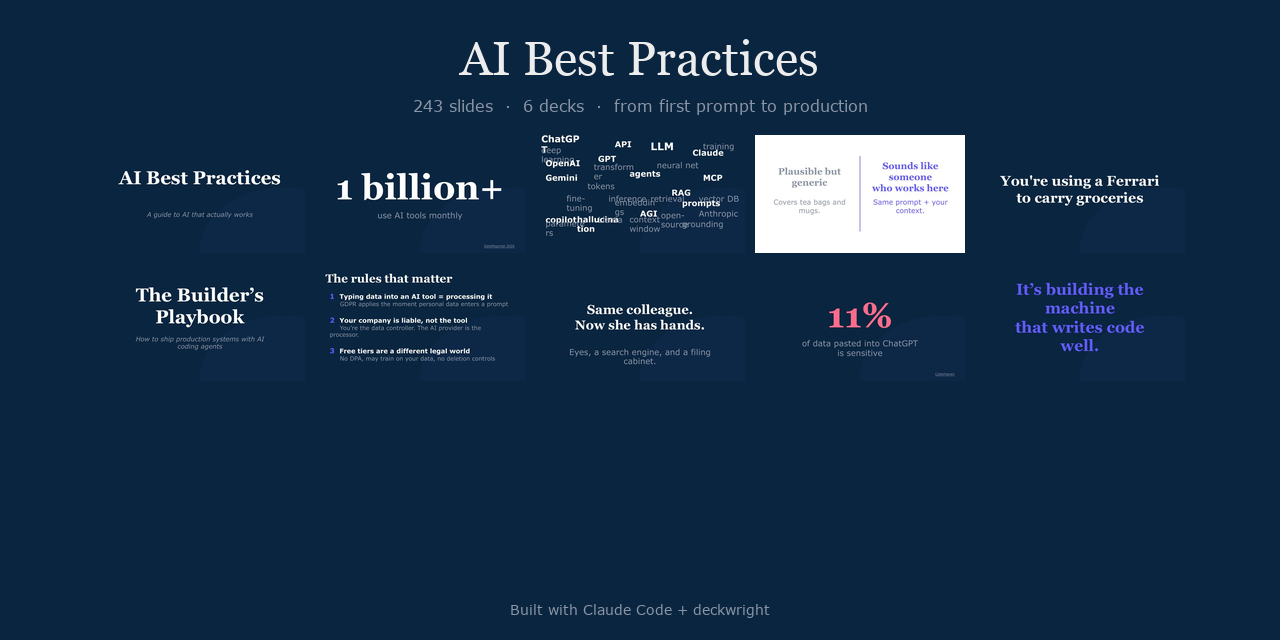
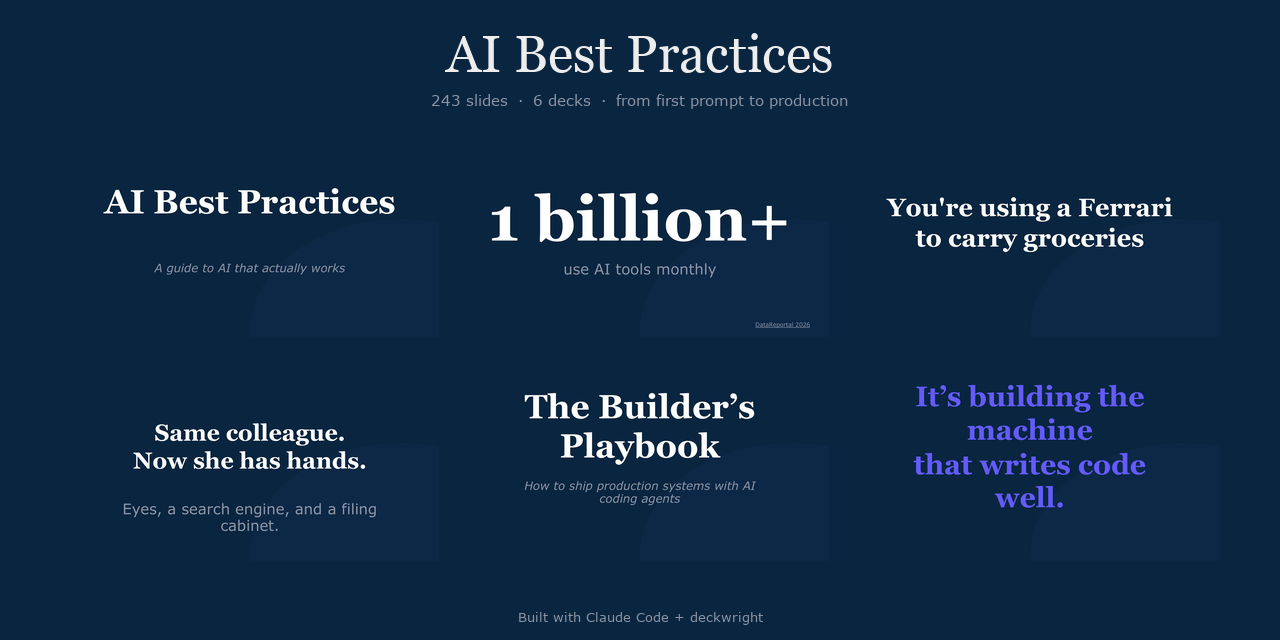
Redesign social preview with larger, readable thumbnails
3x2 grid of billboard-style slides instead of 5x2 dense grid.
All thumbnails readable at a glance. Represents best-practices,
workshop, and builder decks. Script is reusable.

diff --git a/assets/generate-social-preview.py b/assets/generate-social-preview.py
@@ -8,7 +8,6 @@ Usage: python3 assets/generate-social-preview.py
 """
 
 import subprocess
-import math
 from pathlib import Path
 from PIL import Image, ImageDraw, ImageFont
 
@@ -33,18 +32,14 @@ DECKS = [
     "ai-academy-pitch",
 ]
 
-# Slide thumbnails to feature (deck_name, slide_number)
+# 6 billboard-style slides that read at thumbnail size (deck_name, slide_number)
 FEATURED_SLIDES = [
-    ("ai-best-practices", 1),
-    ("ai-best-practices", 7),
-    ("ai-best-practices", 13),
-    ("ai-best-practices", 35),
-    ("workshop-2-orchestrator", 4),
-    ("builder", 1),
-    ("ai-policy", 11),
-    ("ai-best-practices", 53),
-    ("ai-policy", 21),
-    ("builder", 62),
+    ("ai-best-practices", 1),       # "AI Best Practices" title
+    ("ai-best-practices", 7),       # "1 billion+"
+    ("workshop-2-orchestrator", 4), # "You're using a Ferrari to carry groceries"
+    ("ai-best-practices", 53),      # "Same colleague. Now she has hands."
+    ("builder", 1),                 # "The Builder's Playbook" title
+    ("builder", 62),                # "It's building the machine that writes code well."
 ]
 
 
@@ -59,13 +54,14 @@ def get_slide_count(deck_name):
     return 0
 
 
-def get_slide_image(deck_name, slide_num):
+def get_slide_image(deck_name, slide_num, dpi=150):
     """Extract a single slide as a PIL Image."""
     pdf = ROOT / "decks" / deck_name / f"{deck_name}.pdf"
     import tempfile, os
     with tempfile.TemporaryDirectory() as tmp:
         subprocess.run(
-            ["pdftoppm", "-jpeg", "-r", "72", "-f", str(slide_num), "-l", str(slide_num),
+            ["pdftoppm", "-jpeg", "-r", str(dpi),
+             "-f", str(slide_num), "-l", str(slide_num),
              str(pdf), os.path.join(tmp, "s")],
             capture_output=True
         )
@@ -99,31 +95,35 @@ def main():
     draw = ImageDraw.Draw(img)
 
     # Fonts
-    title_font = try_font("Georgia", 48)
-    sub_font = try_font("Verdana", 16)
-    footer_font = try_font("Verdana", 14)
+    title_font = try_font("Georgia", 52)
+    sub_font = try_font("Verdana", 15)
+    footer_font = try_font("Verdana", 13)
 
-    # Title
+    # Title — top area
     title = "AI Best Practices"
     bbox = draw.textbbox((0, 0), title, font=title_font)
     tw = bbox[2] - bbox[0]
-    draw.text(((WIDTH - tw) / 2, 30), title, fill=TEXT, font=title_font)
+    draw.text(((WIDTH - tw) / 2, 24), title, fill=TEXT, font=title_font)
 
     # Subtitle
     subtitle = f"{total_slides} slides  ·  {deck_count} decks  ·  from first prompt to production"
     bbox = draw.textbbox((0, 0), subtitle, font=sub_font)
     sw = bbox[2] - bbox[0]
-    draw.text(((WIDTH - sw) / 2, 95), subtitle, fill=MUTED, font=sub_font)
+    draw.text(((WIDTH - sw) / 2, 90), subtitle, fill=MUTED, font=sub_font)
 
-    # Slide grid
-    cols = 5
-    rows = math.ceil(len(FEATURED_SLIDES) / cols)
-    thumb_w, thumb_h = 210, 118
-    gap = 10
+    # Slide grid — 3x2, larger thumbnails
+    cols = 3
+    rows = 2
+    gap = 12
+    # Fill available width with some margin
+    margin_x = 60
+    available_w = WIDTH - 2 * margin_x - (cols - 1) * gap
+    thumb_w = available_w // cols
+    thumb_h = int(thumb_w * 9 / 16)  # 16:9 aspect ratio
     grid_w = cols * thumb_w + (cols - 1) * gap
     grid_h = rows * thumb_h + (rows - 1) * gap
     grid_x = (WIDTH - grid_w) // 2
-    grid_y = 135
+    grid_y = 125
 
     for idx, (deck, slide_num) in enumerate(FEATURED_SLIDES):
         col = idx % cols
@@ -131,19 +131,18 @@ def main():
         x = grid_x + col * (thumb_w + gap)
         y = grid_y + row * (thumb_h + gap)
 
-        slide_img = get_slide_image(deck, slide_num)
+        slide_img = get_slide_image(deck, slide_num, dpi=150)
         if slide_img:
             slide_img = slide_img.resize((thumb_w, thumb_h), Image.LANCZOS)
             img.paste(slide_img, (x, y))
         else:
-            # Placeholder
             draw.rectangle([x, y, x + thumb_w, y + thumb_h], fill=(20, 50, 80))
 
     # Footer
     footer = "Built with Claude Code + deckwright"
     bbox = draw.textbbox((0, 0), footer, font=footer_font)
     fw = bbox[2] - bbox[0]
-    draw.text(((WIDTH - fw) / 2, HEIGHT - 40), footer, fill=MUTED, font=footer_font)
+    draw.text(((WIDTH - fw) / 2, HEIGHT - 32), footer, fill=MUTED, font=footer_font)
 
     img.save(OUTPUT, quality=95)
     print(f"Created {OUTPUT} ({WIDTH}x{HEIGHT}, {total_slides} slides across {deck_count} decks)")
